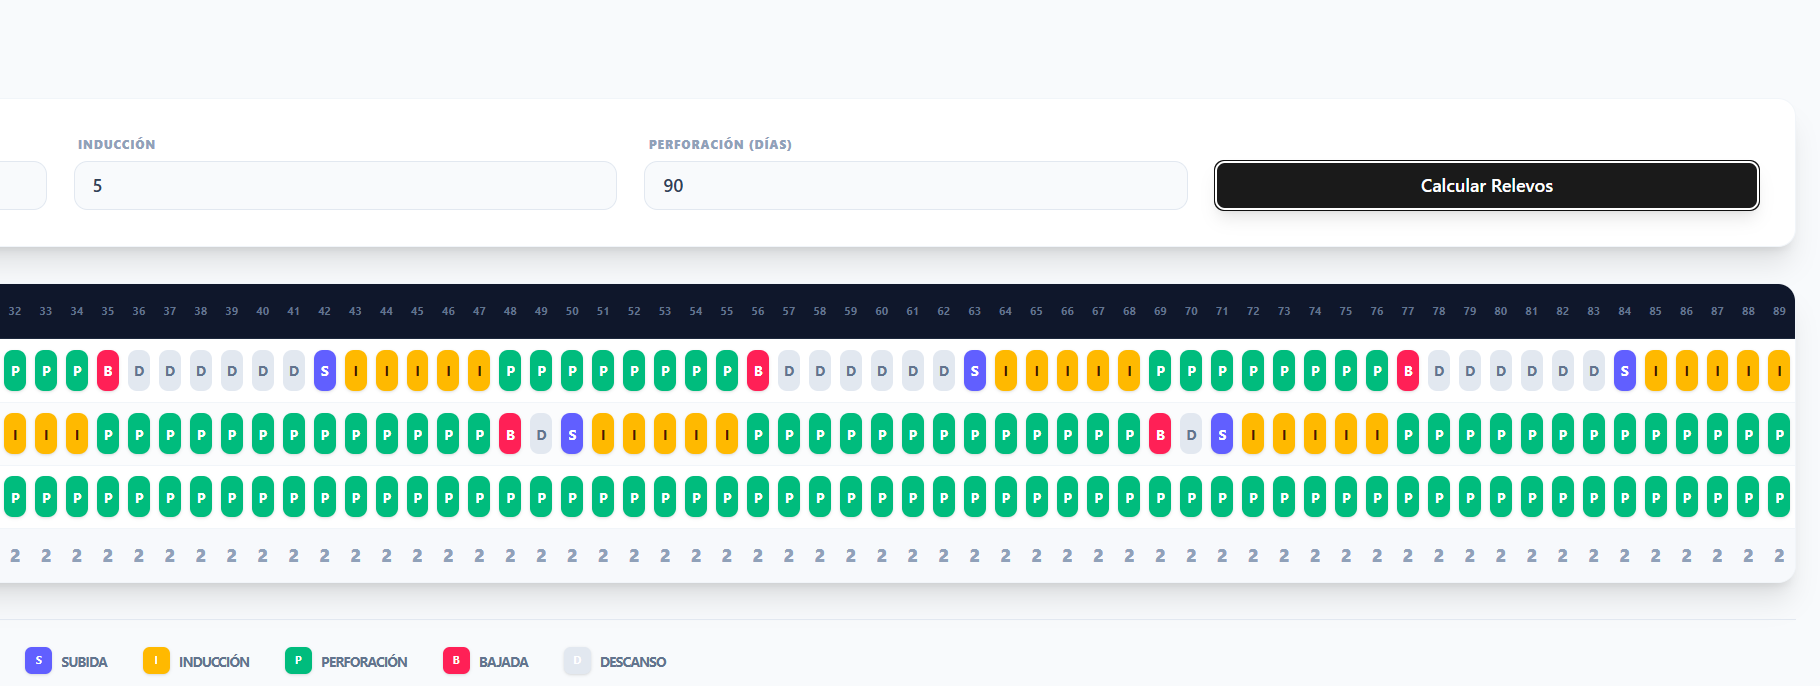
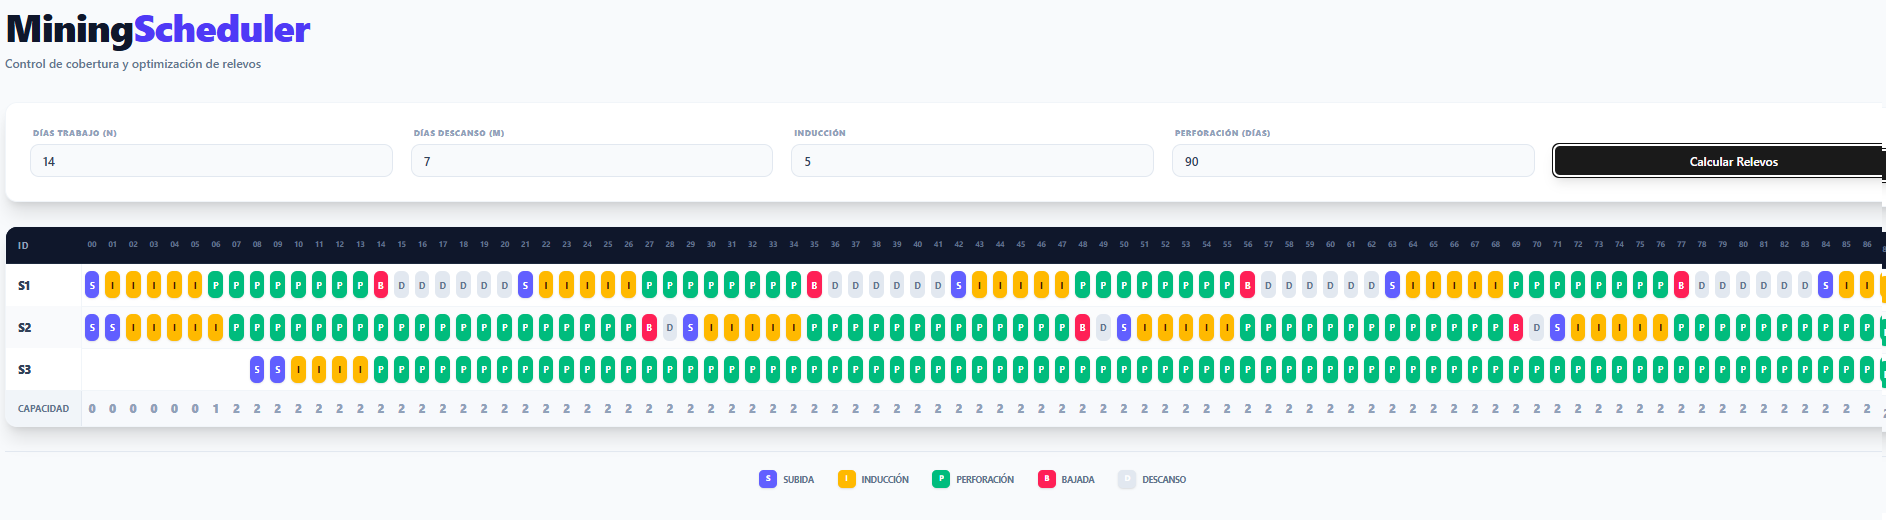
Update

diff --git a/src/useScheduler.js b/src/useScheduler.js
@@ -3,130 +3,225 @@ import { useState, useCallback } from 'react';
 const TYPES = { S: 'S', I: 'I', P: 'P', B: 'B', D: 'D', NONE: '-' };
 
 export const useScheduler = () => {
-    const [schedule, setSchedule] = useState({ s1: [], s2: [], s3: [], days: [] });
-    const [stats, setStats] = useState({ errors: [] });
+  const [schedule, setSchedule] = useState({ s1: [], s2: [], s3: [], days: [] });
+  const [stats, setStats] = useState({ errors: [] });
 
-    const calculateSchedule = useCallback((config) => {
-        const { workDays, restDays, inductionDays, totalDays } = config;
-        
-        const s1 = [];
-        const cycleTotal = workDays + restDays;
-        for (let i = 0; i < totalDays; i++) {
-            const pos = i % cycleTotal;
-            if (pos === 0) s1.push(TYPES.S);
-            else if (pos <= inductionDays) s1.push(TYPES.I);
-            else if (pos < workDays) s1.push(TYPES.P);
-            else if (pos === workDays) s1.push(TYPES.B);
-            else s1.push(TYPES.D);
+  const calculateSchedule = useCallback((config) => {
+    const { workDays, restDays, inductionDays, totalDays, priority = 'S2' } = config;
+    const cycleLen = workDays + restDays;
+    const drillDaysTarget = Math.max(0, workDays - 1 - inductionDays);
+    const s1 = new Array(totalDays).fill(TYPES.D);
+    for (let i = 0, cycleDay = 0; i < totalDays; i++, cycleDay++) {
+      const cyclePos = cycleDay % cycleLen;
+      if (cyclePos === 0) s1[i] = TYPES.S;
+      else if (cyclePos <= inductionDays) s1[i] = TYPES.I;
+      else if (cyclePos < workDays) s1[i] = TYPES.P;
+      else if (cyclePos === workDays) s1[i] = TYPES.B;
+      else s1[i] = TYPES.D;
+    }
+    const s1FirstB = workDays;
+    const s3StartDay = Math.max(0, s1FirstB - inductionDays - 1);
+
+    const makeEmpty = () => new Array(totalDays).fill(TYPES.NONE);
+    const s2 = makeEmpty();
+    const s3 = makeEmpty();
+
+    const fillAgent = (arr, startDay) => {
+      let state = TYPES.NONE;
+      let stateDayCounter = 0;
+      let daysDrilledInCycle = 0;
+      for (let i = 0; i < totalDays; i++) {
+        if (i < startDay) { arr[i] = TYPES.NONE; continue; }
+        if (i === startDay) { state = TYPES.S; stateDayCounter = 0; daysDrilledInCycle = 0; arr[i] = state; continue; }
+        arr[i] = state;
+        const next = i + 1;
+        if (next >= totalDays) break;
+        let nextState = state;
+        stateDayCounter++;
+        if (state === TYPES.S) { nextState = TYPES.I; stateDayCounter = 0; }
+        else if (state === TYPES.I) {
+          if (stateDayCounter >= inductionDays) { nextState = TYPES.P; stateDayCounter = 0; }
         }
-
-        const s2 = new Array(totalDays).fill(TYPES.D);
-        const s3 = new Array(totalDays).fill(TYPES.NONE);
-
-        let s2State = TYPES.S, s2Count = 0;
-        let s3State = TYPES.NONE, s3Count = 0;
-
-        for (let i = 0; i < totalDays; i++) {
-            s2[i] = s2State;
-            s3[i] = s3State;
-
-            const next = i + 1;
-            if (next >= totalDays) break;
-
-            const getPCountAt = (day, hypS2, hypS3) => {
-                let count = (s1[day] === TYPES.P) ? 1 : 0;
-                if (hypS2 === TYPES.P) count++;
-                if (hypS3 === TYPES.P) count++;
-                return count;
-            };
-
-            const leadTime = 1 + inductionDays;
-
-            if (s2State === TYPES.S) s2State = TYPES.I;
-            else if (s2State === TYPES.I) {
-                s2Count++;
-                if (s2Count >= inductionDays) { s2State = TYPES.P; s2Count = 0; }
-            }
-            else if (s2State === TYPES.P) {
-                const s1P = s1[next] === TYPES.P;
-                const s3P = s3State === TYPES.P || s3[next] === TYPES.P;
-                if (s1P && s3P) s2State = TYPES.B;
-            }
-            else if (s2State === TYPES.B) s2State = TYPES.D;
-            else if (s2State === TYPES.D) {
-                if (next + leadTime < totalDays) {
-                    if (getPCountAt(next + leadTime, TYPES.NONE, s3[next + leadTime]) < 2) {
-                        s2State = TYPES.S; s2Count = 0;
-                    }
-                }
-            }
-
-            if (s3State === TYPES.NONE) {
-                if (next + leadTime < totalDays) {
-                    if (getPCountAt(next + leadTime, s2[next + leadTime], TYPES.NONE) < 2) s3State = TYPES.S;
-                }
-            }
-            else if (s3State === TYPES.S) s3State = TYPES.I;
-            else if (s3State === TYPES.I) {
-                s3Count++;
-                if (s3Count >= inductionDays) { s3State = TYPES.P; s3Count = 0; }
-            }
-            else if (s3State === TYPES.P) {
-                if (s1[next] === TYPES.P && s2[next] === TYPES.P) s3State = TYPES.B;
-            }
-            else if (s3State === TYPES.B) s3State = TYPES.D;
-            else if (s3State === TYPES.D) {
-                if (next + leadTime < totalDays) {
-                    if (getPCountAt(next + leadTime, s2[next + leadTime], TYPES.NONE) < 2) {
-                        s3State = TYPES.S; s3Count = 0;
-                    }
-                }
-            }
+        else if (state === TYPES.P) {
+          daysDrilledInCycle++;
+          const othersDrillingTomorrow = 0;
+          if (daysDrilledInCycle >= drillDaysTarget) {
+            if (othersDrillingTomorrow >= 2) { nextState = TYPES.B; stateDayCounter = 0; }
+            else { nextState = TYPES.P; }
+          }
         }
-
-        const days = [];
-        const errors = [];
-        let s3EverActive = false;
-
-        for (let i = 0; i < totalDays; i++) {
-            let pCount = 0;
-            if (s1[i] === TYPES.P) pCount++;
-            if (s2[i] === TYPES.P) pCount++;
-            if (s3[i] === TYPES.P) pCount++;
-            if (s3[i] !== TYPES.NONE) s3EverActive = true;
-
-            const dayErrors = [];
-            if (pCount > 2) dayErrors.push("3+ Supervisores");
-            if (s3EverActive && pCount < 2) dayErrors.push("Déficit: < 2 Supervisores");
-            
-            const validateFlow = (arr, name) => {
-                if (i > 0) {
-                    if (arr[i] === TYPES.S && arr[i-1] === TYPES.S) dayErrors.push(`${name}: Doble Subida`);
-                    if (arr[i] === TYPES.B && arr[i-1] === TYPES.S) dayErrors.push(`${name}: S-B sin P`);
-                    if (arr[i] === TYPES.P && arr[i-1] === TYPES.B) dayErrors.push(`${name}: P tras B`);
-                }
-            };
-            validateFlow(s2, "S2");
-            validateFlow(s3, "S3");
-
-            if (dayErrors.length > 0) {
-                errors.push({ day: i, messages: dayErrors });
+        else if (state === TYPES.B) { nextState = TYPES.D; stateDayCounter = 0; }
+        else if (state === TYPES.D) {
+          const leadTime = 1 + inductionDays;
+          const targetDay = next + leadTime;
+          if (targetDay < totalDays) {
+            const othersDrillingInFuture = 0;
+            if (othersDrillingInFuture < 2) { nextState = TYPES.S; stateDayCounter = 0; daysDrilledInCycle = 0; }
+            else {
+              const maxRest = Math.max(0, restDays - 2);
+              if (stateDayCounter >= maxRest) { nextState = TYPES.S; stateDayCounter = 0; daysDrilledInCycle = 0; }
             }
-
-            days.push({
-                day: i,
-                s1: s1[i],
-                s2: s2[i],
-                s3: s3[i],
-                pCount,
-                hasError: dayErrors.length > 0,
-                errorMsg: dayErrors.join(" | ")
-            });
+          }
         }
+        state = nextState;
+      }
+    };
 
-        setSchedule({ s1, s2, s3, days });
-        setStats({ errors });
-    }, []);
+    const simulateAgentFrom = (arr, startDay, startState, other1, other2) => {
+      arr[startDay] = startState;
+      let state = startState;
+      let stateDayCounter = 0;
+      let daysDrilledInCycle = 0;
+      for (let i = startDay; i < totalDays; i++) {
+        if (i > startDay) arr[i] = state;
+        const next = i + 1;
+        if (next >= totalDays) break;
+        let nextState = state;
+        stateDayCounter++;
+        if (state === TYPES.S) { nextState = TYPES.I; stateDayCounter = 0; }
+        else if (state === TYPES.I) {
+          if (stateDayCounter >= inductionDays) { nextState = TYPES.P; stateDayCounter = 0; }
+        }
+        else if (state === TYPES.P) {
+          daysDrilledInCycle++;
+          const othersDrillingTomorrow = (other1[next] === TYPES.P ? 1 : 0) + (other2[next] === TYPES.P ? 1 : 0);
+          if (daysDrilledInCycle >= drillDaysTarget) {
+            if (othersDrillingTomorrow >= 2) { nextState = TYPES.B; stateDayCounter = 0; }
+            else { nextState = TYPES.P; }
+          }
+        }
+        else if (state === TYPES.B) { nextState = TYPES.D; stateDayCounter = 0; }
+        else if (state === TYPES.D) {
+          const leadTime = 1 + inductionDays;
+          const targetDay = next + leadTime;
+          if (targetDay < totalDays) {
+            const othersDrillingInFuture = (other1[targetDay] === TYPES.P ? 1 : 0) + (other2[targetDay] === TYPES.P ? 1 : 0);
+            if (othersDrillingInFuture < 2) { nextState = TYPES.S; stateDayCounter = 0; daysDrilledInCycle = 0; }
+            else {
+              const maxRest = Math.max(0, restDays - 2);
+              if (stateDayCounter >= maxRest) { nextState = TYPES.S; stateDayCounter = 0; daysDrilledInCycle = 0; }
+            }
+          }
+        }
+        state = nextState;
+      }
+    };
 
-    return { schedule, stats, calculateSchedule };
+    const initAgent = (arr, startDay, otherA, otherB) => {
+      let state = TYPES.NONE;
+      let stateDayCounter = 0;
+      let daysDrilledInCycle = 0;
+      for (let i = 0; i < totalDays; i++) {
+        if (i < startDay) { arr[i] = TYPES.NONE; continue; }
+        if (i === startDay) { state = TYPES.S; stateDayCounter = 0; daysDrilledInCycle = 0; arr[i] = state; continue; }
+        arr[i] = state;
+        const next = i + 1;
+        if (next >= totalDays) break;
+        let nextState = state;
+        stateDayCounter++;
+        if (state === TYPES.S) { nextState = TYPES.I; stateDayCounter = 0; }
+        else if (state === TYPES.I) {
+          if (stateDayCounter >= inductionDays) { nextState = TYPES.P; stateDayCounter = 0; }
+        }
+        else if (state === TYPES.P) {
+          daysDrilledInCycle++;
+          const othersDrillingTomorrow = (otherA[next] === TYPES.P ? 1 : 0) + (otherB[next] === TYPES.P ? 1 : 0);
+          if (daysDrilledInCycle >= drillDaysTarget) {
+            if (othersDrillingTomorrow >= 2) { nextState = TYPES.B; stateDayCounter = 0; }
+            else { nextState = TYPES.P; }
+          }
+        }
+        else if (state === TYPES.B) { nextState = TYPES.D; stateDayCounter = 0; }
+        else if (state === TYPES.D) {
+          const leadTime = 1 + inductionDays;
+          const targetDay = next + leadTime;
+          if (targetDay < totalDays) {
+            const othersDrillingInFuture = (otherA[targetDay] === TYPES.P ? 1 : 0) + (otherB[targetDay] === TYPES.P ? 1 : 0);
+            if (othersDrillingInFuture < 2) { nextState = TYPES.S; stateDayCounter = 0; daysDrilledInCycle = 0; }
+            else {
+              const maxRest = Math.max(0, restDays - 2);
+              if (stateDayCounter >= maxRest) { nextState = TYPES.S; stateDayCounter = 0; daysDrilledInCycle = 0; }
+            }
+          }
+        }
+        state = nextState;
+      }
+    };
+
+    initAgent(s3, s3StartDay, s1, s2);
+    initAgent(s2, 0, s1, s3);
+
+    const pCountAt = (d) => {
+      let c = 0;
+      if (s1[d] === TYPES.P) c++;
+      if (s2[d] === TYPES.P) c++;
+      if (s3[d] === TYPES.P) c++;
+      return c;
+    };
+
+    const setAndResimulate = (arr, day, newState, startDayForAgent, otherA, otherB) => {
+      arr[day] = newState;
+      simulateAgentFrom(arr, day, newState, otherA, otherB);
+    };
+
+    for (let day = 0; day < totalDays; day++) {
+      let pCount = pCountAt(day);
+      if (pCount > 2) {
+        if (priority === 'S2') {
+          if (s2[day] === TYPES.P) { setAndResimulate(s2, day, TYPES.B, 0, s1, s3); pCount = pCountAt(day); }
+          if (pCount > 2 && s3[day] === TYPES.P) { setAndResimulate(s3, day, TYPES.B, s3StartDay, s1, s2); pCount = pCountAt(day); }
+        } else {
+          if (s3[day] === TYPES.P) { setAndResimulate(s3, day, TYPES.B, s3StartDay, s1, s2); pCount = pCountAt(day); }
+          if (pCount > 2 && s2[day] === TYPES.P) { setAndResimulate(s2, day, TYPES.B, 0, s1, s3); pCount = pCountAt(day); }
+        }
+      }
+      const s3Active = day >= s3StartDay;
+      if (s3Active) {
+        pCount = pCountAt(day);
+        if (pCount < 2) {
+          if (s2[day] !== TYPES.P && (s2[day] === TYPES.D || s2[day] === TYPES.B || s2[day] === TYPES.NONE)) {
+            setAndResimulate(s2, day, TYPES.P, 0, s1, s3); pCount = pCountAt(day);
+          }
+          if (pCount < 2 && s3[day] !== TYPES.P && (s3[day] === TYPES.D || s3[day] === TYPES.B || s3[day] === TYPES.NONE)) {
+            setAndResimulate(s3, day, TYPES.P, s3StartDay, s1, s2); pCount = pCountAt(day);
+          }
+          if (pCount < 2) {
+            if (s2[day] === TYPES.I) { setAndResimulate(s2, day, TYPES.P, 0, s1, s3); pCount = pCountAt(day); }
+            if (pCount < 2 && s3[day] === TYPES.I) { setAndResimulate(s3, day, TYPES.P, s3StartDay, s1, s2); pCount = pCountAt(day); }
+          }
+          if (pCount < 2) {
+            const seed = Math.max(0, day - (inductionDays + 1));
+            setAndResimulate(s2, seed, TYPES.S, 0, s1, s3);
+            setAndResimulate(s3, seed, TYPES.S, s3StartDay, s1, s2);
+            pCount = pCountAt(day);
+          }
+        }
+      }
+      if (pCountAt(day) > 2) {
+        if (priority === 'S2') {
+          if (s2[day] === TYPES.P) setAndResimulate(s2, day, TYPES.B, 0, s1, s3);
+        } else {
+          if (s3[day] === TYPES.P) setAndResimulate(s3, day, TYPES.B, s3StartDay, s1, s2);
+        }
+      }
+    }
+
+    const days = [];
+    const errors = [];
+    for (let i = 0; i < totalDays; i++) {
+      let pCount = 0;
+      if (s1[i] === TYPES.P) pCount++;
+      if (s2[i] === TYPES.P) pCount++;
+      if (s3[i] === TYPES.P) pCount++;
+      const s3Active = i >= s3StartDay;
+      if (pCount === 3) errors.push({ day: i, msg: '¡ALERTA: 3 Perforando!' });
+      if (s3Active && pCount < 2) errors.push({ day: i, msg: '¡ALERTA: Menos de 2 Perforando!' });
+      days.push({ day: i, s1: s1[i], s2: s2[i], s3: s3[i], pCount, hasError: (pCount === 3) || (s3Active && pCount < 2) });
+    }
+
+    setSchedule({ s1, s2, s3, days });
+    setStats({ errors });
+  }, []);
+
+  return { schedule, stats, calculateSchedule };
 };

diff --git a/README.md b/README.md
@@ -22,9 +22,29 @@ Este repositorio contiene la lógica de programación para minería. A continuac
 
 ## Caso de Prueba - 90 Días de Perforación (3 de Inducción)
 
-**Días de Trabajo**: 14
+**Días de Trabajo**: 21
 **Días de Descanso**: 7
 **Inducción**: 3
 **Perforación**: 90
 
 ![Caso de Prueba](public/caso03.png)
+
+## Caso de Prueba - 90 Días de Perforación (2 de Inducción)
+
+**Días de Trabajo**: 10
+**Días de Descanso**: 5
+**Inducción**: 2
+**Perforación**: 90
+
+![Caso de Prueba](public/caso04.png)
+
+## Caso de Prueba - 90 Días de Perforación (2 de Inducción)
+
+**Días de Trabajo**: 14
+**Días de Descanso**: 6
+**Inducción**: 4
+**Perforación**: 950
+
+**NOTA:** Es imposible  visualizar los 950 días en la imagen. La prueba no mostró ninguna alerta o falla.
+
+![Caso de Prueba](public/caso05.png)
